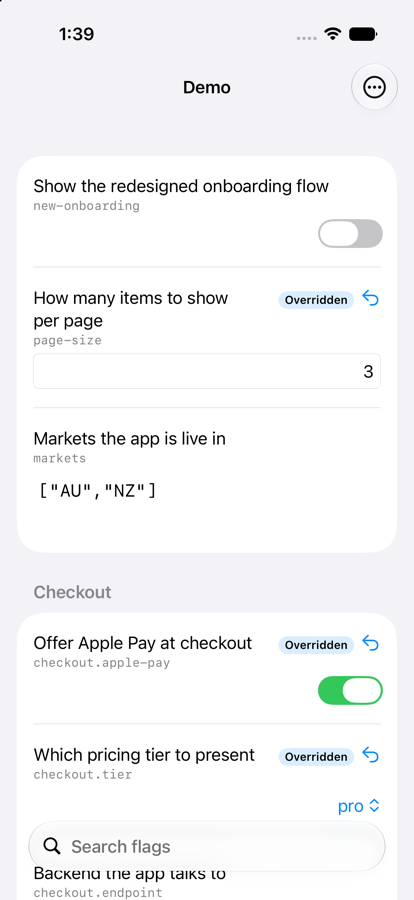
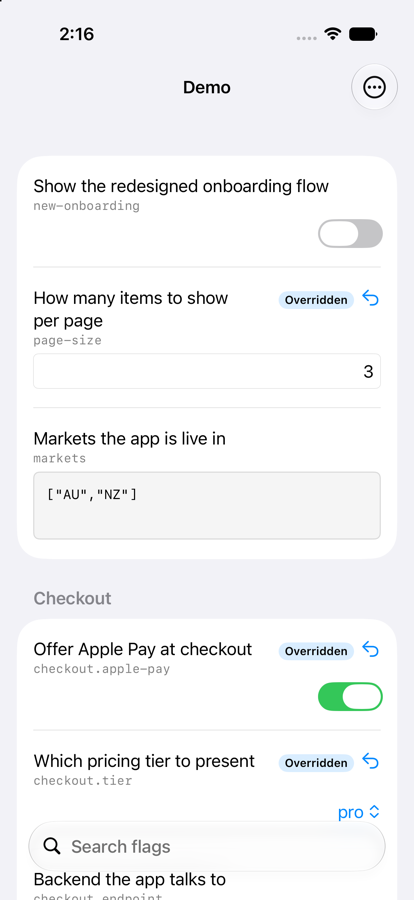
Present the JSON editor as a code block (#3)
A bare TextEditor gave no indication of where the editable region began or
ended — the JSON simply floated in the row. A tinted ground, a hairline border
and a monospaced footnote make it read as what it is, the way a fenced block
does on GitHub.

Colours are derived from Color.primary rather than a platform background
constant, so the module keeps building for both iOS and macOS without a
conditional, and adapts to dark mode on its own.

Minimum height is 54pt: enough for three lines of a real payload, without
leaving a short array floating in empty space.

Claude-Session: https://claude.ai/code/session_01NnwCqKNm8rZ63Au6bpYdaD

diff --git a/Sources/FeatureFlagUI/FlagRowView.swift b/Sources/FeatureFlagUI/FlagRowView.swift
@@ -153,14 +153,26 @@ struct FlagTextField: View {
     var body: some View {
         Group {
             if isMultiline {
+                // Presented as a code block, because that is what it is. The tinted
+                // ground and border mark where the editable region begins and ends,
+                // which a bare TextEditor does not.
                 TextEditor(text: $draft)
-                    .frame(minHeight: 60)
-                    .font(.body.monospaced())
+                    .frame(minHeight: 54)
+                    .font(.system(.footnote, design: .monospaced))
                     // Explicit, because the field beside it is trailing. JSON is
                     // structurally left-anchored — brackets, keys and indentation all
                     // read from the leading edge — so a longer payload becomes hard to
                     // scan when it is pushed right.
                     .multilineTextAlignment(.leading)
+                    .scrollContentBackground(.hidden)
+                    .padding(.horizontal, 8)
+                    .padding(.vertical, 6)
+                    .background(Color.primary.opacity(0.04))
+                    .clipShape(RoundedRectangle(cornerRadius: 6, style: .continuous))
+                    .overlay {
+                        RoundedRectangle(cornerRadius: 6, style: .continuous)
+                            .strokeBorder(Color.primary.opacity(0.12))
+                    }
             } else {
                 TextField("", text: $draft)
                     .textFieldStyle(.roundedBorder)
